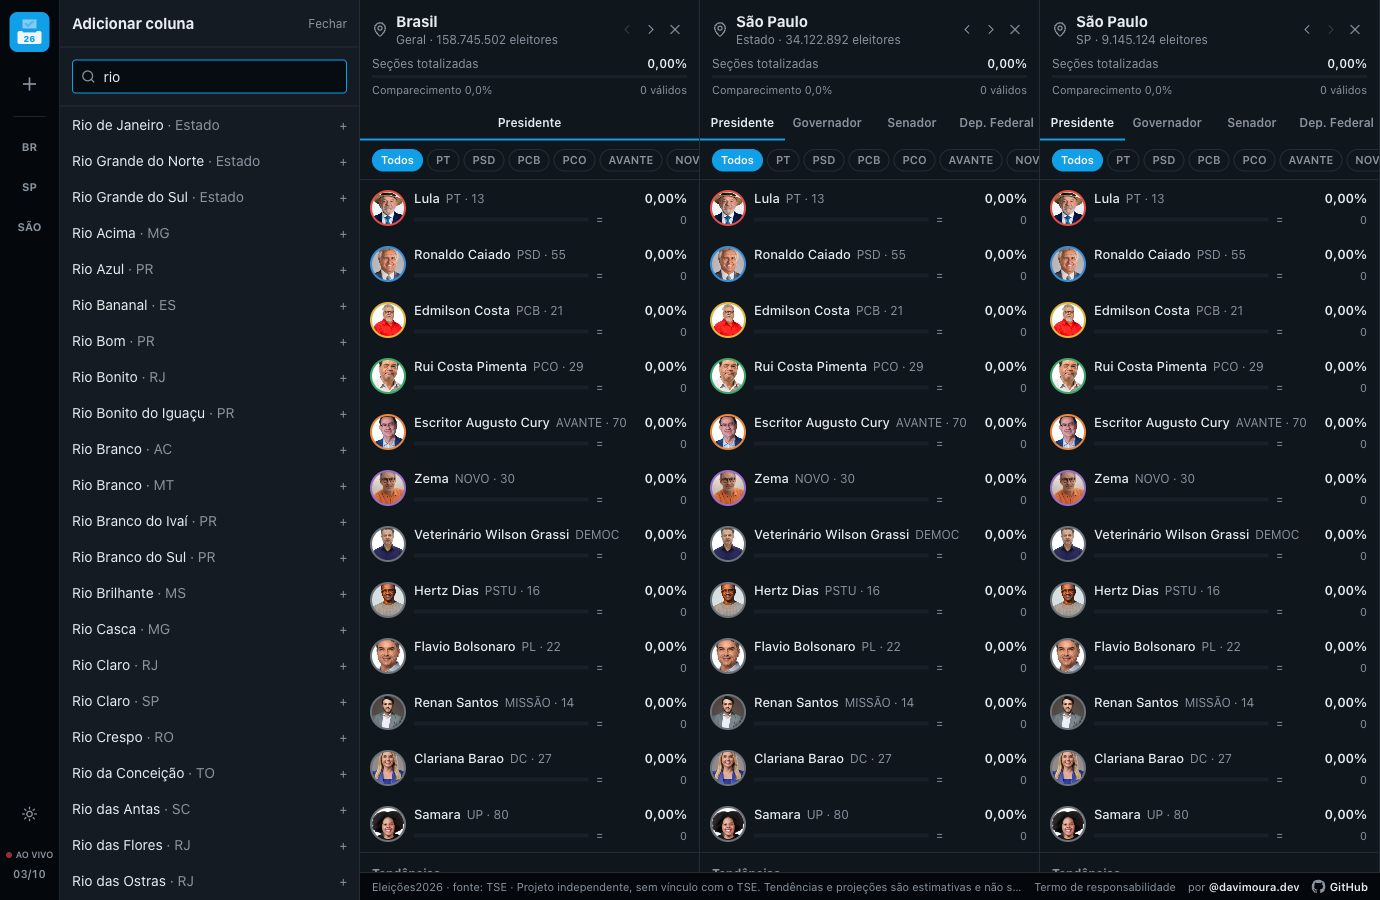
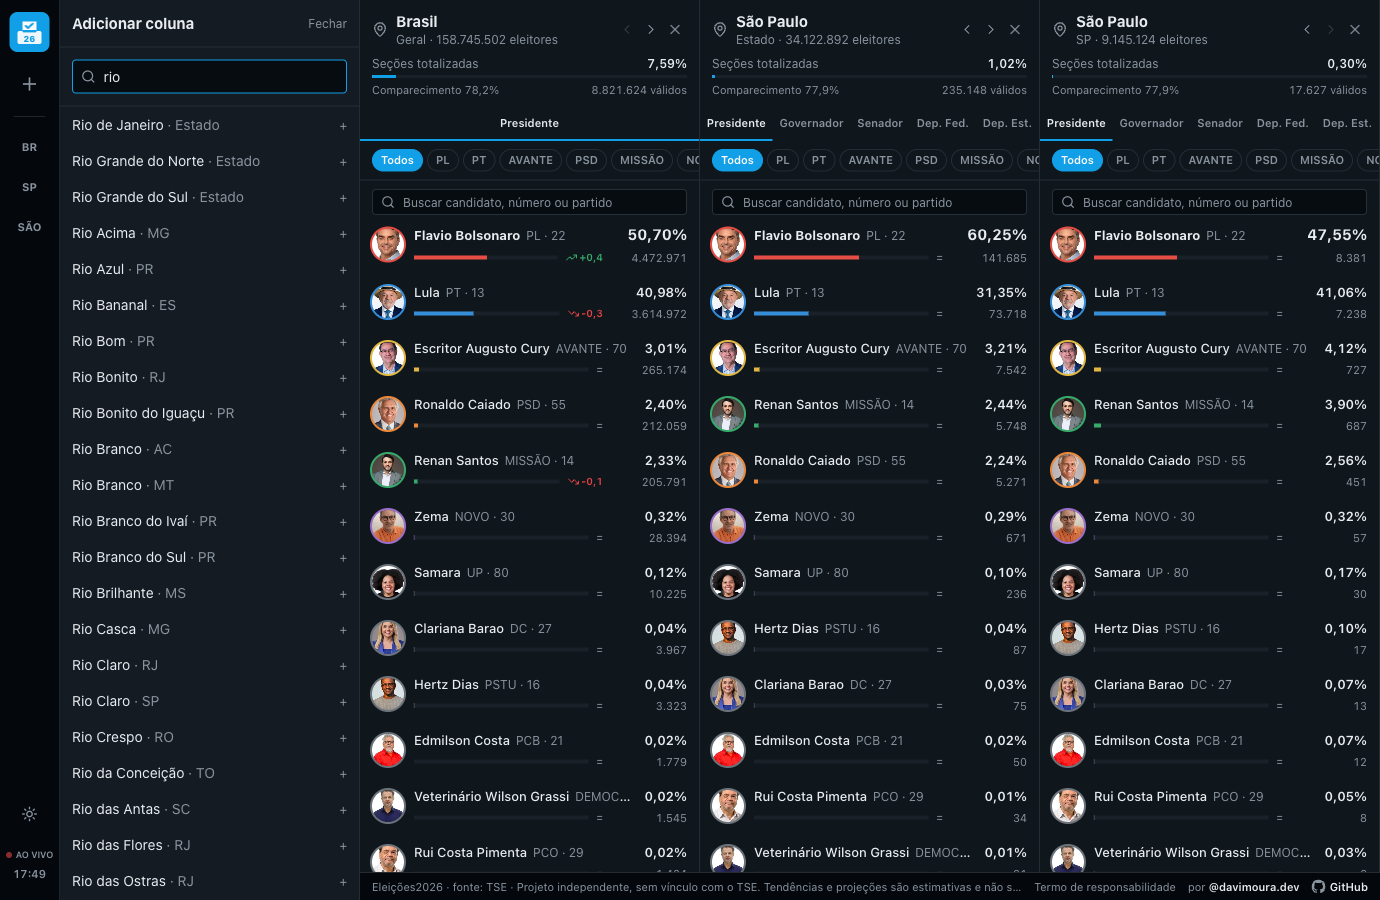
README explicando cada recurso, com telas da apuração real
Texto pra quem não conhece o assunto: colunas, status da apuração, placar, página do candidato, tendências, quociente eleitoral e de onde vêm os números. Prints novos tirados durante a apuração do 1º turno.

diff --git a/README.md b/README.md
@@ -1,35 +1,130 @@
 # Eleições2026
 
-Painel da apuração das eleições de 2026 em colunas lado a lado, no estilo TweetDeck.
-Cada coluna é o Brasil, um estado ou um município, com placar, tendências, evolução e marcos da apuração.
+A apuração das eleições de 2026 em colunas lado a lado, no estilo TweetDeck.
+Você escolhe o que quer acompanhar - o Brasil, um estado, a sua cidade - e cada um vira uma coluna que se atualiza sozinha.
 
 No ar em **[eleicoes2026-ashy.vercel.app](https://eleicoes2026-ashy.vercel.app)**.
 
-![Painel com as colunas Brasil, estado de São Paulo e cidade de São Paulo](docs/screenshots/painel-escuro.png)
+![Painel com as colunas Status da apuração, Brasil, estado de São Paulo e cidade de São Paulo](docs/screenshots/painel-escuro.png)
 
-<table>
-  <tr>
-    <td><img src="docs/screenshots/painel-claro.png" alt="Painel no modo claro"></td>
-    <td><img src="docs/screenshots/adicionar-coluna.png" alt="Busca de estados e municípios para adicionar uma coluna"></td>
-  </tr>
-  <tr>
-    <td align="center">Modo claro</td>
-    <td align="center">Qualquer estado ou município vira uma coluna</td>
-  </tr>
-</table>
+## O que dá pra fazer
 
-## Como os dados chegam
+### Uma coluna pra cada lugar
 
-Os navegadores nunca consultam o TSE diretamente.
-Um único poller (`supabase/functions/poll-tse`) roda a cada 5 segundos e faz requisições condicionais ao CDN de resultados do TSE.
-Ele usa os índices de abrangência (`-ab.json`) para descobrir o que mudou e só baixa os resultados das disputas que alguém está acompanhando.
-Os resultados ficam no Postgres (`results_latest` e `results_history`) e cada mudança é enviada aos navegadores via Supabase Realtime.
-A função `watch` entrega o estado atual e o histórico quando uma coluna é aberta.
+Clica no **+** da barra lateral e busca por qualquer estado ou município do Brasil, ou por uma cidade do exterior onde tem brasileiro votando.
+São 5.785 lugares.
+Cada um vira uma coluna, e dá pra abrir quantas quiser, mudar a ordem pelas setinhas e fechar no **x**.
 
-## Desenvolvimento
+O site lembra das suas colunas.
+Fechou a aba e voltou depois, tá tudo lá, do jeito que você deixou.
+
+<img src="docs/screenshots/adicionar-coluna.png" alt="Busca de estados e municípios para adicionar uma coluna" width="720">
+
+### Status da apuração
+
+É a coluna que mostra o andamento geral da contagem, não quem tá ganhando.
+
+- Quantas seções eleitorais do Brasil já foram contadas, de quantas no total.
+- O comparecimento - quanto do eleitorado das seções já contadas foi votar.
+- Um mapa onde cada estado fica mais forte conforme avança a contagem. Passa o mouse num estado pra ver o número.
+- O mesmo por região e um ranking dos estados, do mais ao menos apurado.
+
+<img src="docs/screenshots/status-apuracao.png" alt="Coluna Status da apuração com o mapa do Brasil" width="340">
+
+### O placar
+
+Em cada coluna tem uma aba por cargo: Presidente, Governador, Senador, Deputado Federal e Deputado Estadual (Distrital, no DF).
+A coluna do Brasil só tem Presidente, porque é o único cargo votado no país todo.
+
+Pra cada candidato aparece a foto, o partido, o número, a porcentagem dos votos válidos e o total de votos.
+A setinha verde ou vermelha mostra se ele subiu ou caiu nas últimas atualizações.
+
+- **Filtro por partido:** os botões logo acima da lista mostram só os candidatos daqueles partidos.
+- **Busca:** dá pra procurar por nome, número ou partido, sem se preocupar com acento.
+- **Mostrar mais:** as listas de deputado começam nos 10 mais votados. Em São Paulo são mais de 1.300 candidatos a deputado estadual, então dá pra ir abrindo de 50 em 50.
+
+<img src="docs/screenshots/deputados.png" alt="Lista de deputados estaduais de São Paulo com fotos e busca" width="340">
+
+### A página do candidato
+
+Clica em qualquer candidato e a coluna vira a página dele.
+Tem o nome completo, o partido, a idade, a coligação ou federação, o vice ou os suplentes, a posição, os votos e um gráfico de como ele foi indo ao longo da contagem.
+
+Na coluna do Brasil ainda aparece como o presidenciável tá em cada estado, com os estados onde ele lidera em negrito.
+O **Voltar** (ou a tecla Esc) devolve a coluna exatamente como tava.
+
+<img src="docs/screenshots/pagina-candidato.png" alt="Página de um candidato a presidente com votos por estado" width="340">
+
+### Tendências
+
+Com uma parte das urnas contadas, a gente estima onde cada um deve terminar.
+
+- **Projeção:** a porcentagem que o candidato deve ter no fim. No Brasil, ela leva em conta quanto falta contar em cada estado, porque um estado que ainda não apurou nada muda muito o resultado.
+- **Margem:** o "±" do lado da projeção. Ela começa grande e vai diminuindo conforme a contagem avança.
+- **Chance de 1º lugar:** quantas vezes, em 400 simulações, o candidato termina na frente. No Senado são duas vagas, então a coluna vira "chance de ser eleito".
+- **2º turno:** pra Presidente e Governador, a chance de ninguém passar de 50% dos votos válidos.
+
+Isso é estatística, não resultado.
+Quando o TSE marca alguém como eleito ou como indo pro 2º turno, o site para de estimar e mostra o que o TSE disse.
+
+### Quociente eleitoral
+
+Deputado não ganha só por ser dos mais votados.
+As vagas primeiro são divididas entre os partidos e federações, conforme os votos de cada um, e só depois vão pros candidatos mais votados de cada partido.
+A conta que faz essa divisão se chama quociente eleitoral.
+
+Na aba de deputado da coluna de um estado, o site faz essa conta com os votos já apurados e mostra quantas vagas cada partido levaria se a apuração parasse agora.
+Quando a contagem termina, troca pela divisão oficial do TSE.
+
+A conta segue o Código Eleitoral do jeito que vale em 2026, com as mudanças de 2021 e a decisão do STF de 2024.
+A gente testou contra o resultado oficial de todas as 5.547 cidades com a contagem de vereador de 2024 finalizada, e o resultado bateu em todas.
+A versão de 2024 deste projeto errava a divisão em uma de cada três cidades.
+
+<img src="docs/screenshots/quociente.png" alt="Simulação do quociente eleitoral para deputado estadual em São Paulo" width="340">
+
+### Evolução e atualizações
+
+O gráfico de evolução mostra a porcentagem de cada candidato conforme a contagem avança.
+Embaixo dele fica um resumo do que aconteceu: quando a apuração passou de 10%, 25%, 50% e assim por diante, e quando alguém passou outro candidato.
+
+### Modo claro e ao vivo
+
+O botão de sol e lua, embaixo na barra lateral, troca entre o modo escuro e o claro.
+Logo abaixo dele, o ponto vermelho com "AO VIVO" mostra que a conexão tá de pé, e o horário é o da última atualização que saiu do TSE.
+
+<img src="docs/screenshots/painel-claro.png" alt="Painel no modo claro" width="720">
+
+## De onde vêm os números
+
+Tudo vem dos arquivos públicos de resultado do TSE, os mesmos que alimentam o site oficial.
+
+Em 2024 eu fiz uma versão disso em que cada navegador consultava o TSE direto.
+Com bastante gente olhando e apertando F5, o TSE começou a bloquear por excesso de acessos.
+
+Agora é diferente.
+Um servidor nosso confere o TSE a cada poucos segundos, guarda os resultados e manda pra todo mundo ao mesmo tempo.
+O seu navegador nunca fala com o TSE, então não importa quanta gente tá olhando ou quantas vezes você recarrega.
+Na prática, um número novo aparece aqui segundos depois de sair no TSE.
+
+## Aviso
+
+Este é um projeto independente, sem nenhum vínculo com o TSE, com a Justiça Eleitoral, com partidos ou com candidatos.
+Tendências, projeções, chances e a simulação do quociente são estimativas e não substituem o resultado oficial.
+O resultado que vale é o divulgado pela Justiça Eleitoral.
+
+## Pra quem quer rodar o código
+
+O front é TanStack Start com React, publicado na Vercel.
+O backend é Supabase: Postgres pros resultados e o histórico, Edge Functions pra consultar o TSE e Realtime pra mandar as atualizações.
+
+- `supabase/functions/poll-tse` roda a cada 5 segundos pelo `pg_cron`. Ele usa requisições condicionais ao CDN do TSE, divide o trabalho entre workers e descarta respostas de servidores do CDN que ainda tão com uma versão antiga do arquivo.
+- `supabase/functions/watch` entrega o estado atual e o histórico quando alguém abre uma coluna, e marca aquela disputa como acompanhada.
+- Cada lugar tem um canal no Realtime (`abr:<lugar>`), e o Presidente de todos os estados tem um canal só (`pres-uf`).
+- `supabase/functions/_shared/tse.ts` é TypeScript puro, usado pelas functions, pelo app e pelos testes.
 
 ```sh
 bun install
+cp .env.example .env
 bun run dev
 ```
 
@@ -37,4 +132,6 @@ Outros comandos:
 
 - `bun run test` roda os testes, que usam arquivos reais do TSE em `src/lib/election/__fixtures__/`.
 - `bun run lint` roda o ESLint e o Prettier.
+- `bun scripts/validate-quociente.ts 6000` compara o cálculo do quociente com o resultado oficial de 2024 em todas as cidades. Leva uns 8 minutos.
 - `bun scripts/gen-places.ts` regenera a lista de lugares a partir da configuração do TSE.
+- `bun scripts/gen-brazil-map.ts` regenera o mapa dos estados (as instruções estão no próprio arquivo).
